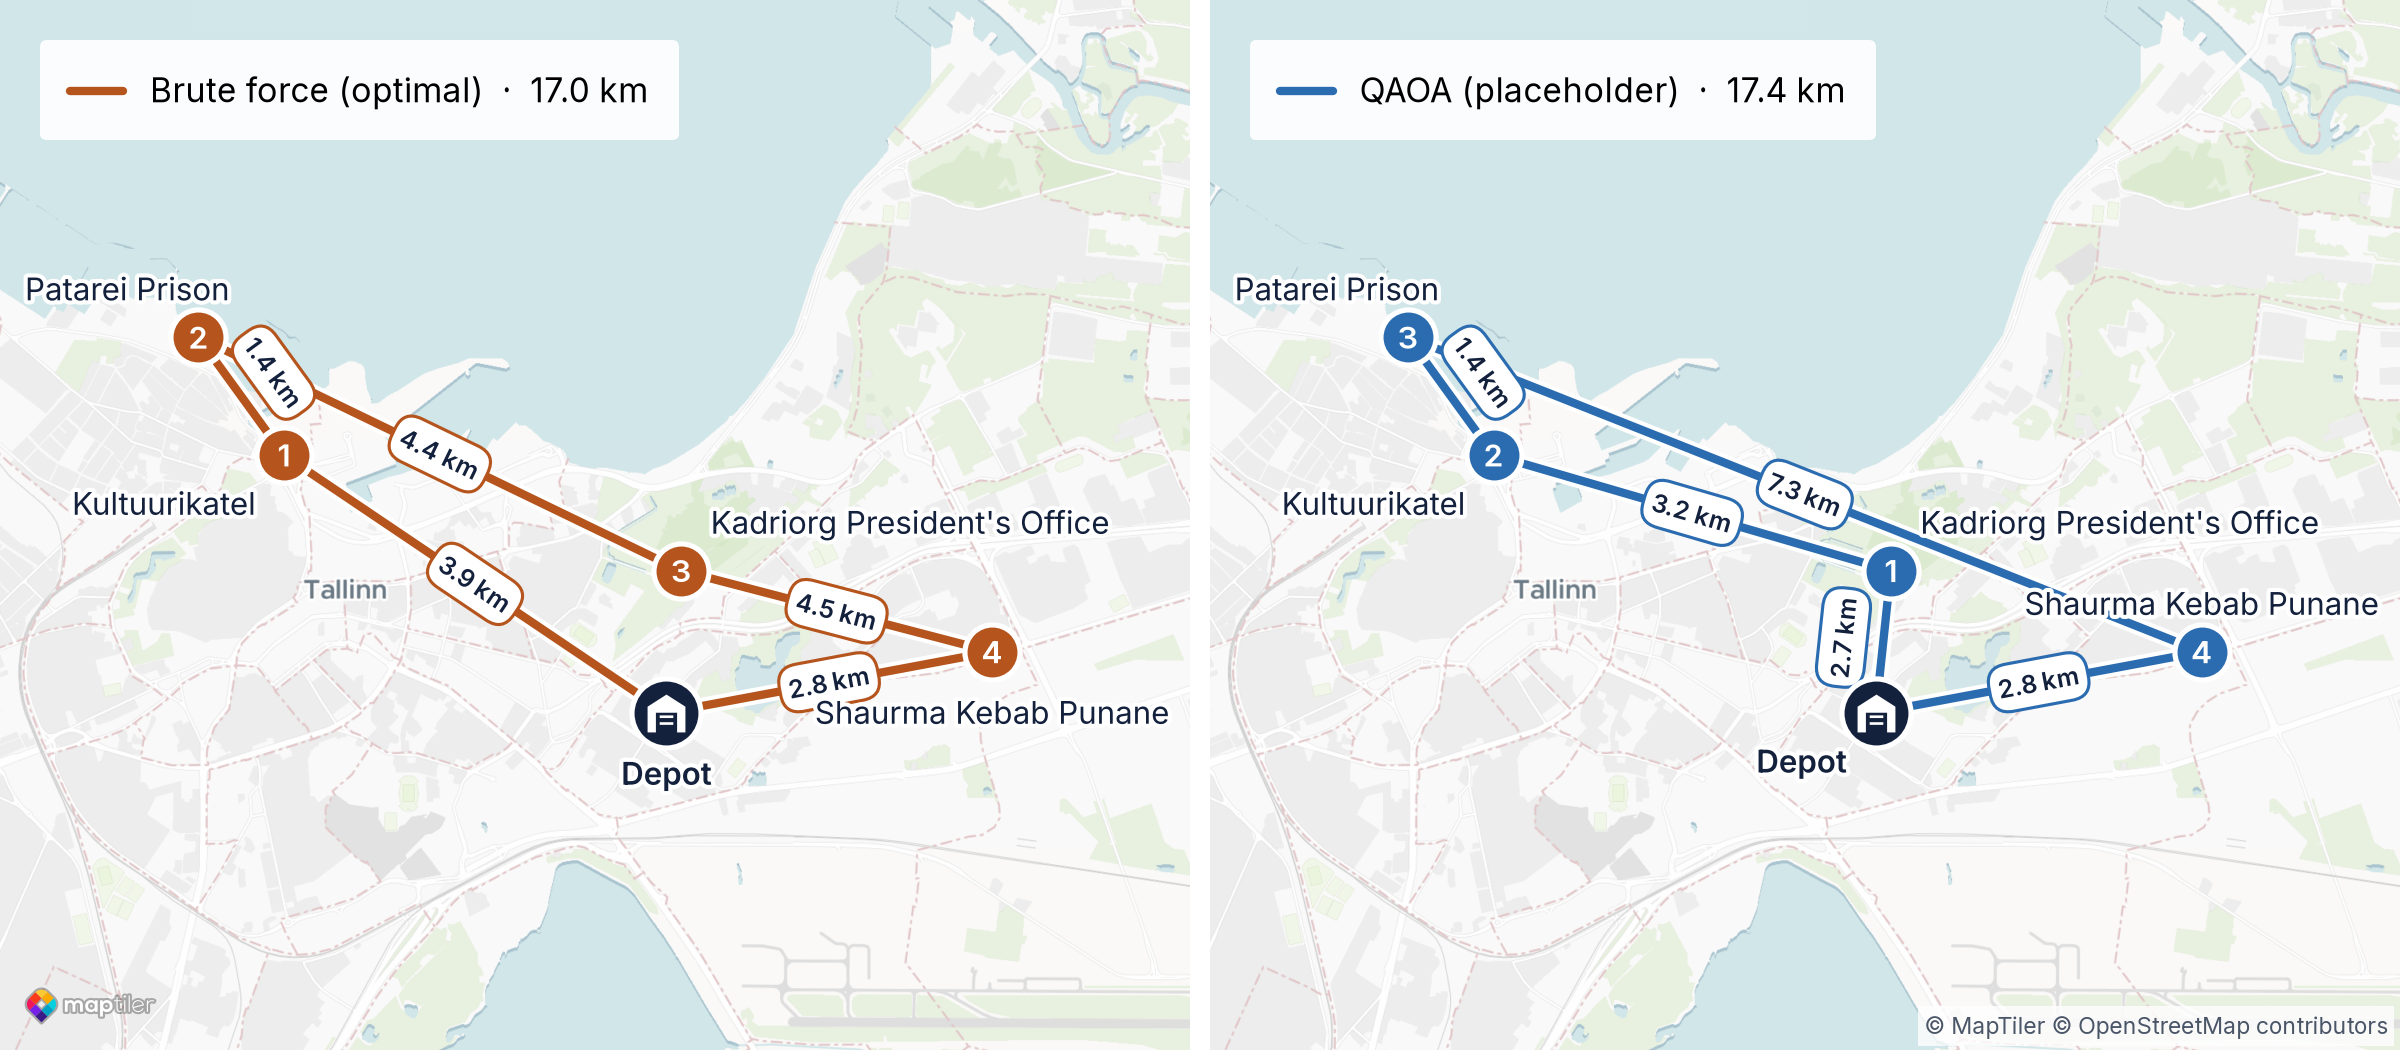
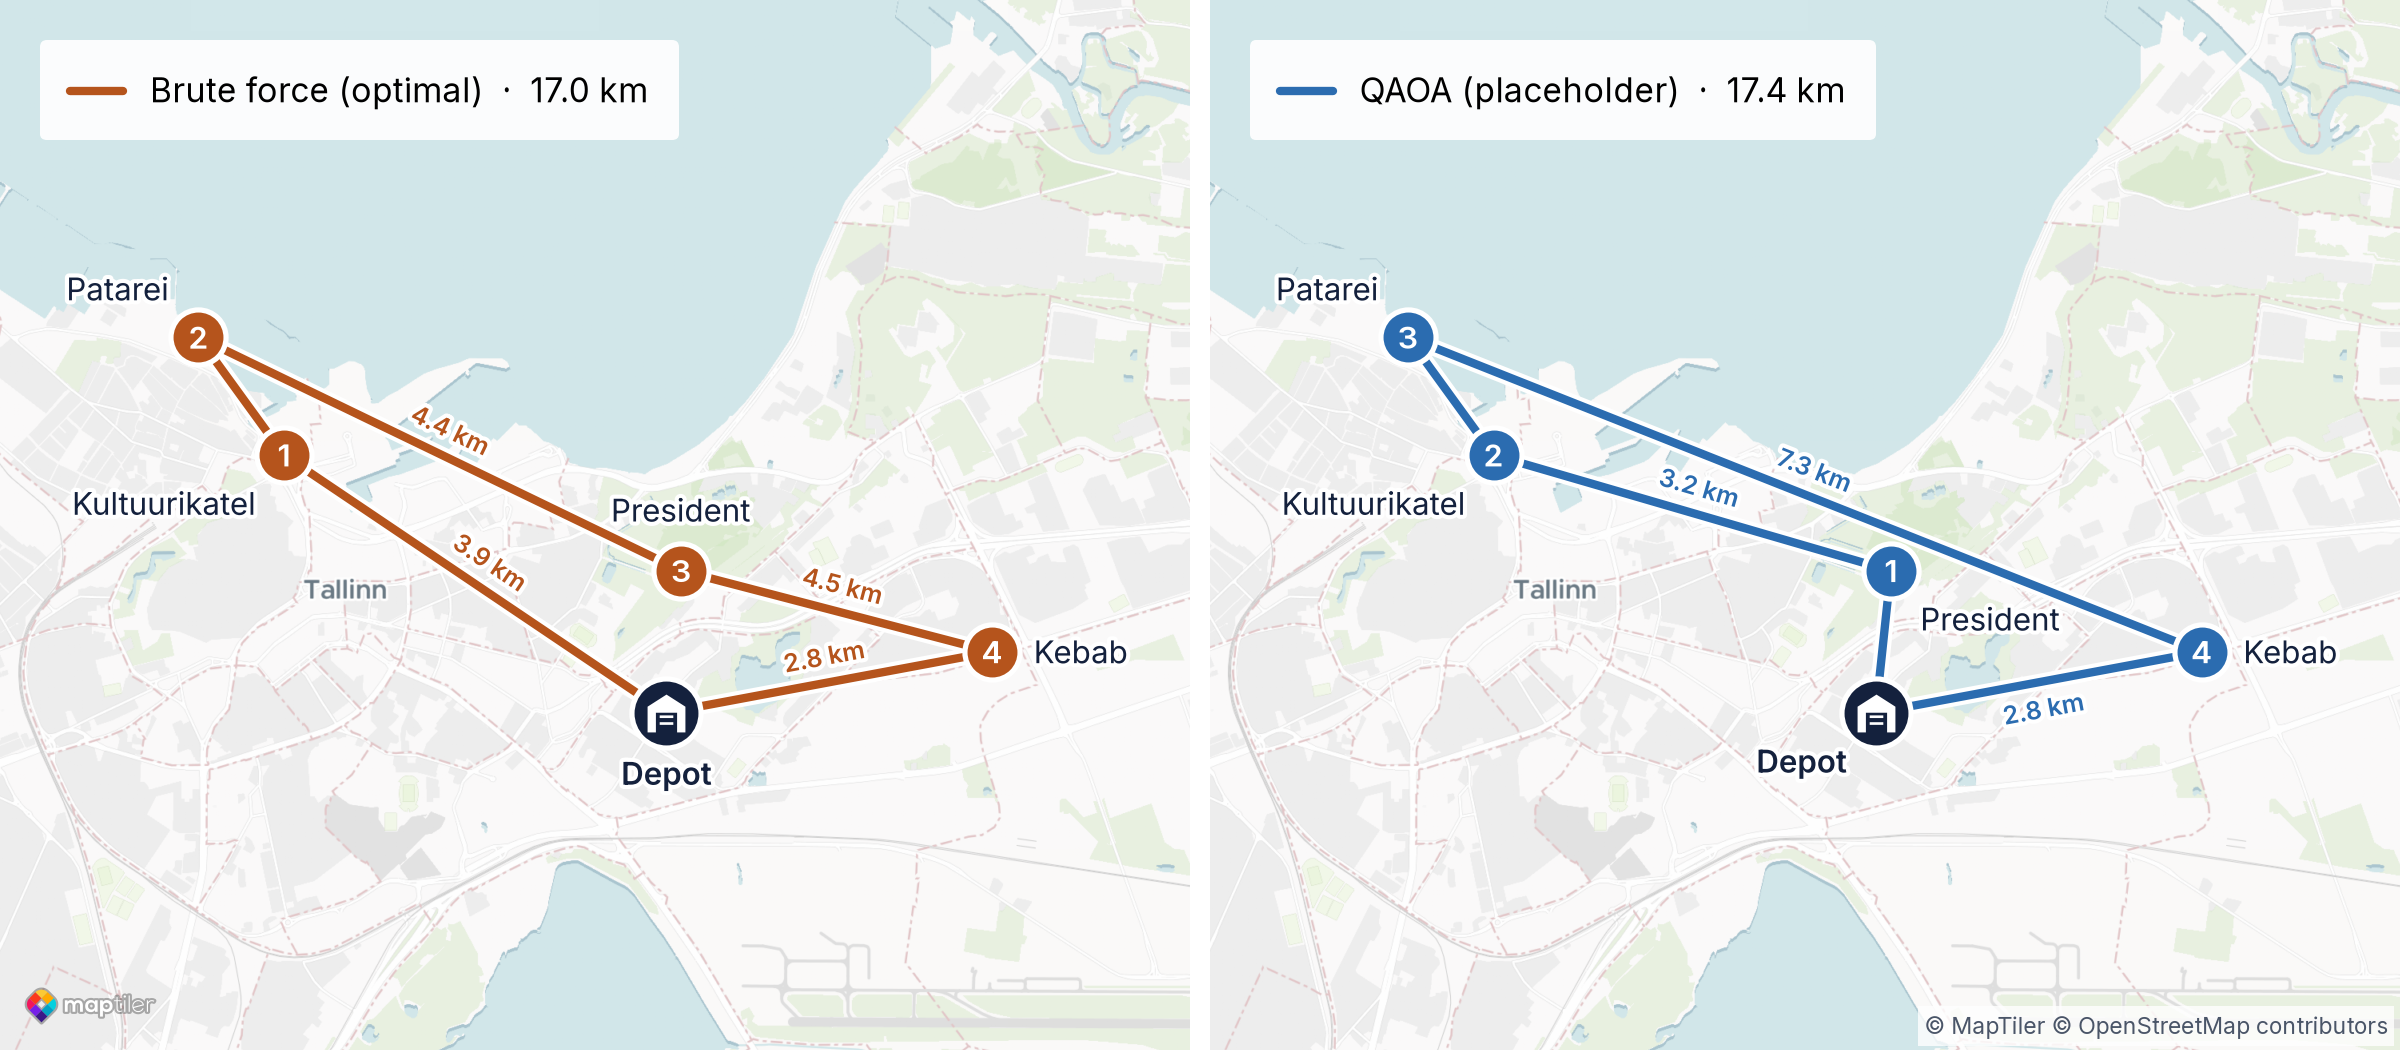
Add step 2 route maps, declutter map labels
Leg distances sit beside the line and are dropped where they do not
fit. Stops get short names from routes.json.

diff --git a/presentation/maps/render_maps.py b/presentation/maps/render_maps.py
@@ -5,9 +5,11 @@
 """Render route maps for the slides on a MapTiler Dataviz basemap.
 
 Reads map definitions from routes.json and writes one PNG per map to
-presentation/img/. Routes are straight lines labelled with the symmetrised
-distance the solvers use: D[min(i, j)][max(i, j)]. Tiles, fonts and the logo
-are cached in .cache/, so re-renders while tweaking the style run offline.
+presentation/img/. "stop_labels" in routes.json gives stops a shorter name on
+the maps than in the matrix file. Routes are straight lines. Each leg shows the symmetrised
+distance the solvers use, D[min(i, j)][max(i, j)], beside the line where there
+is room for it. Tiles, fonts and the logo are cached in .cache/, so re-renders
+while tweaking the style run offline.
 
 Run from anywhere: uv run presentation/maps/render_maps.py
 """
@@ -50,7 +52,11 @@ PANELS_HEIGHT_IN = 7
 PANEL_GAP = 0.008
 DPI = 150
 
-PILL_FONTSIZE = 12
+LEG_LABEL_FONTSIZE = 12
+# Where along a leg its distance label is tried, as a share of the leg: the middle first.
+LEG_LABEL_POSITIONS = (0.5, 0.35, 0.65, 0.25, 0.75)
+ROUTE_LINEWIDTH = 4
+ROUTE_CASING_LINEWIDTH = 8
 STOP_MARKER_SIZE = 700
 DEPOT_MARKER_SIZE = 1100
 # Warehouse pictogram for the depot badge: a gabled building with a garage door
@@ -99,8 +105,7 @@ def panels_of(spec: dict) -> list[dict]:
     return spec.get("panels") or [{"routes": spec["routes"]}]
 
 
-def load_maps(point_count: int) -> list[dict]:
-    maps = json.loads((MAPS_DIR / "routes.json").read_text())["maps"]
+def check_maps(maps: list[dict], point_count: int) -> None:
     for m in maps:
         for route in (r for panel in panels_of(m) for r in panel["routes"]):
             stops = route["stops"]
@@ -109,7 +114,6 @@ def load_maps(point_count: int) -> list[dict]:
             bad = [s for s in stops if not 0 <= s < point_count]
             if bad:
                 raise ValueError(f"{m['name']}/{route['label']}: unknown point indices {bad}")
-    return maps
 
 
 def edge_km(distances: list[list[int]], a: int, b: int) -> float:
@@ -141,20 +145,92 @@ def readable_angle(dx: float, dy: float) -> float:
 
 
 Box = tuple[float, float, float, float]
+Point = tuple[float, float]
 
 
 def overlap_area(a: Box, b: Box) -> float:
     return max(0, min(a[2], b[2]) - max(a[0], b[0])) * max(0, min(a[3], b[3]) - max(a[1], b[1]))
 
 
-def label_stop(ax, xy: tuple[float, float], neighbours: list[tuple[float, float]], obstacles: list[Box], text: str, **text_kw) -> Box:
+def point_segment_distance(p: Point, a: Point, b: Point) -> float:
+    dx, dy = b[0] - a[0], b[1] - a[1]
+    t = max(0.0, min(1.0, ((p[0] - a[0]) * dx + (p[1] - a[1]) * dy) / ((dx * dx + dy * dy) or 1)))
+    return math.hypot(p[0] - a[0] - t * dx, p[1] - a[1] - t * dy)
+
+
+def segment_distance(a: Point, b: Point, c: Point, d: Point) -> float:
+    """Shortest distance between segments a-b and c-d; 0 when they cross."""
+    def side(p: Point, q: Point, r: Point) -> float:
+        return (q[0] - p[0]) * (r[1] - p[1]) - (q[1] - p[1]) * (r[0] - p[0])
+
+    if side(a, b, c) * side(a, b, d) < 0 and side(c, d, a) * side(c, d, b) < 0:
+        return 0.0
+    return min(point_segment_distance(a, c, d), point_segment_distance(b, c, d), point_segment_distance(c, a, b), point_segment_distance(d, a, b))
+
+
+def segment_crosses_box(a: Point, b: Point, box: Box) -> bool:
+    x0, y0, x1, y1 = box
+    if x0 <= a[0] <= x1 and y0 <= a[1] <= y1:
+        return True
+    # A segment that enters the box from outside crosses at least one of its diagonals.
+    return segment_distance(a, b, (x0, y0), (x1, y1)) == 0 or segment_distance(a, b, (x0, y1), (x1, y0)) == 0
+
+
+def label_leg(ax, leg: tuple[Point, Point], other_legs: list[tuple[Point, Point]], obstacles: list[Box], text: str, **text_kw) -> list[Box]:
+    """Write a leg's distance beside the leg and parallel to it, so the line stays visible.
+
+    Tries the middle of the leg first, then positions nearer its ends, on either
+    side of the line. Takes the first position that stays inside the panel and
+    touches no other leg and no obstacle (pixel boxes of markers and labels). A
+    leg with no such position gets no label. Returns the pixel boxes the label covers.
+    """
+    (ax_, ay), (bx, by) = leg
+    length = math.hypot(bx - ax_, by - ay)
+    probe = ax.text(0, 0, text, **text_kw)
+    size = probe.get_window_extent(ax.figure.canvas.get_renderer())
+    probe.remove()
+    width, height = size.width, size.height
+    # The label's centre stays this far from both stops, so the text never touches a marker.
+    reach = MARKER_DIAMETER_PX / 2 + width / 2
+    if length < 2 * reach:
+        return []
+    ux, uy = (bx - ax_) / length, (by - ay) / length
+    px_per_pt = DPI / 72
+    clearance = height / 2 + ROUTE_CASING_LINEWIDTH / 2 * px_per_pt
+    offset = clearance + 1.5 * px_per_pt
+    bounds = ax.get_window_extent()
+    steps = max(2, math.ceil(2 * width / height))
+    for along in LEG_LABEL_POSITIONS:
+        if not reach <= along * length <= length - reach:
+            continue
+        # The side above the line first, so labels read the same way across the map.
+        for side in (1, -1) if ux >= 0 else (-1, 1):
+            cx = ax_ + ux * along * length - uy * side * offset
+            cy = ay + uy * along * length + ux * side * offset
+            start, end = (cx - ux * width / 2, cy - uy * width / 2), (cx + ux * width / 2, cy + uy * width / 2)
+            centres = [(start[0] + (end[0] - start[0]) * k / steps, start[1] + (end[1] - start[1]) * k / steps) for k in range(steps + 1)]
+            boxes = [(x - height / 2, y - height / 2, x + height / 2, y + height / 2) for x, y in centres]
+            if any(box[0] < bounds.x0 or box[1] < bounds.y0 or box[2] > bounds.x1 or box[3] > bounds.y1 for box in boxes):
+                continue
+            if any(segment_distance(start, end, c, d) < clearance for c, d in other_legs):
+                continue
+            if any(overlap_area(box, o) for box in boxes for o in obstacles):
+                continue
+            ax.annotate(text, (cx, cy), xycoords="figure pixels", rotation=readable_angle(ux, uy), rotation_mode="anchor", ha="center", va="center", **text_kw)
+            return boxes
+    return []
+
+
+def label_stop(ax, xy: tuple[float, float], neighbours: list[tuple[float, float]], obstacles: list[Box], legs: list[tuple[Point, Point]], text: str, **text_kw) -> Box:
     """Place a name label on the side of the marker facing away from its route lines.
 
     Tries eight compass directions, best aligned with the outward direction first.
     A label that would cross the panel's left or right edge slides back inside.
     Of the directions that keep the label inside the panel, takes the one that
     overlaps obstacles (pixel boxes of markers and labels) least, preferring the
-    outward one on ties. Returns the label's pixel box.
+    outward one on ties. A route leg under the label counts as the area of line
+    it hides, so a label crosses a line before it covers a marker or another label.
+    Returns the label's pixel box.
     """
     to_px = ax.transData.transform
     px, py = to_px(xy)
@@ -191,7 +267,8 @@ def label_stop(ax, xy: tuple[float, float], neighbours: list[tuple[float, float]
         own_marker = (px - MARKER_DIAMETER_PX / 2, py - MARKER_DIAMETER_PX / 2, px + MARKER_DIAMETER_PX / 2, py + MARKER_DIAMETER_PX / 2)
         if left < panel_x0 or bottom < panel_y0 or box[3] > panel_y1 or overlap_area(box, own_marker):
             continue
-        placements.append((sum(overlap_area(box, o) for o in obstacles), (ax_x - px, ax_y - py), ha, va, box))
+        hidden_line = sum(segment_crosses_box(a, b, box) for a, b in legs) * ROUTE_CASING_LINEWIDTH * px_per_pt * height
+        placements.append((sum(overlap_area(box, o) for o in obstacles) + hidden_line, (ax_x - px, ax_y - py), ha, va, box))
     _, (off_x, off_y), ha, va, box = min(placements, key=lambda p: p[0])
     ax.annotate(text, xy, xytext=(off_x / px_per_pt, off_y / px_per_pt), textcoords="offset points", ha=ha, va=va, **text_kw)
     return box
@@ -213,55 +290,46 @@ def draw_panel(ax, routes: list[dict], colours: list[str], matrix: dict, extent:
     for s in {s for route in routes for s in route["stops"]}:
         x, y = to_px(stop_xy[s])
         obstacles.append((x - radius, y - radius, x + radius, y + radius))
+
     legend_handles, legend_labels = [], []
     for colour, route in zip(colours, routes):
         stops = route["stops"]
         xs, ys = zip(*(stop_xy[s] for s in stops))
-        ax.plot(xs, ys, color="white", linewidth=8, solid_capstyle="round", solid_joinstyle="round", zorder=2)
-        ax.plot(xs, ys, color=colour, linewidth=4, solid_capstyle="round", solid_joinstyle="round", zorder=3)
+        ax.plot(xs, ys, color="white", linewidth=ROUTE_CASING_LINEWIDTH, solid_capstyle="round", solid_joinstyle="round", zorder=2)
+        ax.plot(xs, ys, color=colour, linewidth=ROUTE_LINEWIDTH, solid_capstyle="round", solid_joinstyle="round", zorder=3)
+        total_km = sum(edge_km(distances, a, b) for a, b in zip(stops, stops[1:]))
+        legend_handles.append(Line2D([], [], color=colour, linewidth=ROUTE_LINEWIDTH, solid_capstyle="round"))
+        legend_labels.append(f"{route['label']}  ·  {total_km:.1f} km")
 
-        legs = list(zip(stops, stops[1:]))
-        for a, b in legs:
-            (ax_, ay), (bx, by) = ax.transData.transform(stop_xy[a]), ax.transData.transform(stop_xy[b])
-            length = math.hypot(bx - ax_, by - ay) or 1
-            text = f"{edge_km(distances, a, b):.1f} km"
-            # A pill that does not fit between the two markers sits beside the leg instead of on it.
-            pill_px = (len(text) * 0.6 + 1.5) * PILL_FONTSIZE * DPI / 72
-            shift = 0 if length >= pill_px + MARKER_DIAMETER_PX else 1.6 * PILL_FONTSIZE * DPI / 72
-            normal_x, normal_y = -(by - ay) / length, (bx - ax_) / length
-            if normal_y < 0:
-                normal_x, normal_y = -normal_x, -normal_y
-            cx, cy = (ax_ + bx) / 2 + normal_x * shift, (ay + by) / 2 + normal_y * shift
-            pill = ax.annotate(
-                text, (cx, cy), xycoords="figure pixels",
-                rotation=readable_angle(bx - ax_, by - ay), rotation_mode="anchor", ha="center", va="center",
-                fontsize=PILL_FONTSIZE, fontweight=600, color=NAVY, zorder=4,
-                bbox={"boxstyle": "round,pad=0.35,rounding_size=0.8", "facecolor": "white", "edgecolor": colour, "linewidth": 1.5},
-            )
-            # The text's box excludes the rounded frame around it, hence the padding.
-            text_box = pill.get_window_extent(ax.figure.canvas.get_renderer())
-            frame = 0.5 * PILL_FONTSIZE * DPI / 72
-            obstacles.append((text_box.x0 - frame, text_box.y0 - frame, text_box.x1 + frame, text_box.y1 + frame))
+    legs = [(colour, a, b) for colour, route in zip(colours, routes) for a, b in zip(route["stops"], route["stops"][1:])]
+    legs_px = [(tuple(map(float, to_px(stop_xy[a]))), tuple(map(float, to_px(stop_xy[b])))) for _, a, b in legs]
 
+    # Stop names are placed before the leg distances: a name is always shown, a distance only where room is left.
+    for colour, route in zip(colours, routes):
+        stops = route["stops"]
         for order, i in enumerate(range(1, len(stops) - 1), start=1):
             x, y = stop_xy[stops[i]]
             ax.scatter(x, y, s=STOP_MARKER_SIZE, color=colour, edgecolors="white", linewidths=2.5, zorder=5)
             ax.text(x, y, str(order), color="white", fontsize=15, fontweight=600, ha="center", va="center", zorder=6)
-            obstacles.append(label_stop(ax, (x, y), [stop_xy[stops[i - 1]], stop_xy[stops[i + 1]]], obstacles, points[stops[i]]["name"], fontsize=15, color=NAVY, path_effects=halo, zorder=6))
-
-        total_km = sum(edge_km(distances, a, b) for a, b in legs)
-        legend_handles.append(Line2D([], [], color=colour, linewidth=4, solid_capstyle="round"))
-        legend_labels.append(f"{route['label']}  ·  {total_km:.1f} km")
+            obstacles.append(label_stop(ax, (x, y), [stop_xy[stops[i - 1]], stop_xy[stops[i + 1]]], obstacles, legs_px, points[stops[i]]["name"], fontsize=15, color=NAVY, path_effects=halo, zorder=6))
 
     for depot in {route["stops"][0] for route in routes}:
         x, y = stop_xy[depot]
         ax.scatter(x, y, s=DEPOT_MARKER_SIZE, color=NAVY, edgecolors="white", linewidths=2.5, zorder=5)
         ax.scatter(x, y, s=DEPOT_MARKER_SIZE * 0.3, marker=WAREHOUSE_ICON, color="white", linewidths=0, zorder=6)
         neighbours = [stop_xy[r["stops"][j]] for r in routes if r["stops"][0] == depot for j in (1, -2)]
-        obstacles.append(label_stop(ax, (x, y), neighbours, obstacles, "Depot", fontsize=15, fontweight=600, color=NAVY, path_effects=halo, zorder=6))
+        obstacles.append(label_stop(ax, (x, y), neighbours, obstacles, legs_px, "Depot", fontsize=15, fontweight=600, color=NAVY, path_effects=halo, zorder=6))
 
     legend = ax.legend(legend_handles, legend_labels, loc="upper left", fontsize=16, handlelength=1.6, borderpad=0.9, borderaxespad=1.2, fancybox=True, framealpha=0.92, edgecolor="none")
     legend.set_zorder(10)
+    # The legend only has a position once the figure has been drawn.
+    ax.figure.canvas.draw()
+    legend_box = legend.get_window_extent()
+    obstacles.append((legend_box.x0, legend_box.y0, legend_box.x1, legend_box.y1))
+
+    for n, (colour, a, b) in enumerate(legs):
+        obstacles.extend(label_leg(ax, legs_px[n], legs_px[:n] + legs_px[n + 1:], obstacles, f"{edge_km(distances, a, b):.1f} km",
+                                   fontsize=LEG_LABEL_FONTSIZE, fontweight=600, color=colour, path_effects=halo, zorder=4))
 
 
 def render_map(spec: dict, matrix: dict, tile_url: str, logo) -> Path:
@@ -297,8 +365,12 @@ def main() -> None:
     ctx.set_cache_dir(str(CACHE_DIR / "tiles"))
     use_inter_font()
     matrix = json.loads(MATRIX_FILE.read_text())
+    definitions = json.loads((MAPS_DIR / "routes.json").read_text())
+    check_maps(definitions["maps"], len(matrix["points"]))
+    labels = definitions.get("stop_labels", {})
+    matrix = {**matrix, "points": [{**point, "name": labels.get(str(i), point["name"])} for i, point in enumerate(matrix["points"])]}
     logo = maptiler_logo()
-    for spec in load_maps(len(matrix["points"])):
+    for spec in definitions["maps"]:
         print(f"Rendered {render_map(spec, matrix, TILE_URL + key, logo).relative_to(REPO_ROOT)}")
 
 

diff --git a/presentation/README.md b/presentation/README.md
@@ -22,7 +22,7 @@ Each slide has its time budget in the speaker notes (`<!-- ... -->` blocks).
 
 ## Route maps
 
-`maps/render_maps.py` draws routes on a map of Tallinn and writes one PNG per map to `img/`. Each map is defined in `maps/routes.json`. A route lists point indices from `tallinn_osrm_matrix.json`. A map has either `routes` (one map) or `panels` (maps side by side, each with its own `routes`).
+`maps/render_maps.py` draws routes on a map of Tallinn and writes one PNG per map to `img/`. Each map is defined in `maps/routes.json`. A route lists point indices from `tallinn_osrm_matrix.json`. A map has either `routes` (one map) or `panels` (maps side by side, each with its own `routes`). `stop_labels` gives a stop a shorter name on the maps, keyed by its point index. Each leg shows its distance beside the line where there is room for it.
 
 1. Add `MAPTILER_KEY=<your key>` to `.env` in the repository root. A free MapTiler account is enough.
 2. Run `uv run presentation/maps/render_maps.py`.
@@ -60,6 +60,7 @@ The slides show numbers only; keep the sources here.
 | Estonia population 1,360,745 on 1 Jan 2026 (Statistics Estonia) | Slide 3 | [Global Estonian, Apr 2026](https://globalestonian.com/en/node/8754) |
 | 94 Omniva parcel lockers in Tallinn (456 for all carriers), data updated 12 Nov 2026 | Slide 3 | [pakiautomaat24.eu/tallinn](https://www.pakiautomaat24.eu/tallinn) (aggregator, not an official Omniva count) |
 | 50,000 parcels a day in Estonia | Slides 2–3 | Hackathon problem statement (`README.md` in the repo root) |
+| Two vans: 48.3 km against 40.2 km for one van, 30.2 km limit per van, 97 % of shots, 175 qubits | Step 2 slide | [`solutions/problem_2_two_vehicles/README.md`](../solutions/problem_2_two_vehicles/README.md) |
 
 ### Our own estimates (not published figures)
 

diff --git a/presentation/slides.md b/presentation/slides.md
@@ -125,17 +125,19 @@ Map: presentation/maps/routes.json, re-render with `uv run presentation/maps/ren
 
 ### 2 · Results · Step 2
 
-## Two vehicles
+## Two vehicles: 48.3 km instead of 40.2 km
 
-<!-- ![w:900](img/step2_results.png) -->
+![w:900](img/step2_comparison.png)
 
-<span class="todo">[map or graph of the two routes; total distance vs one vehicle]</span>
-
-- Approach: <span class="todo">[e.g. split the stops between vehicles first, then route each]</span>
-- Result: <span class="todo">[…]</span>
+<span class="small">Symmetrised road distances. Each van may drive at most 30.2 km, 75 % of the one-van tour. QAOA returns this plan in up to **97 %** of shots (simulated, 175 qubits).</span>
 
 <!--
-~50 s.
+~50 s. Left: the step 1 tour, one van, 40.2 km. Right: the best plan when no van may drive more than 30.2 km.
+Why a limit: without one, the best two-van plan leaves the second van at the depot. The limit stands for the working day: a van spends it driving and handing over parcels.
+Brute force over all 3,628,800 orders gives one best pair of routes: 22.4 km and 25.9 km, 20 % more than one van.
+Approach: a copy of the depot in the list of stops turns two routes into one order, so the step 1 circuit works unchanged. The distance limit is checked inside the circuit with quantum arithmetic.
+Hard limit: 97 % of shots are the best plan, 175 qubits, 143 million CX gates. Penalty version: 11.5 % of shots, 138 qubits, 3.8 million CX gates, and fewer cost evaluations overall.
+Numbers: solutions/problem_2_two_vehicles/README.md. Map: presentation/maps/routes.json.
 -->
 
 ---
